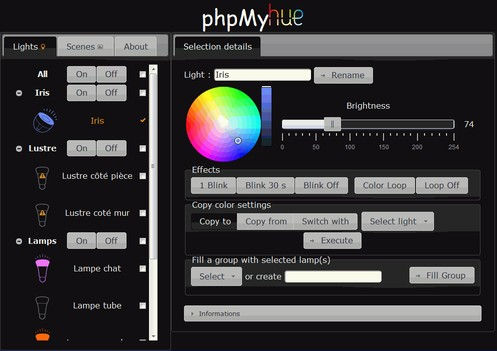
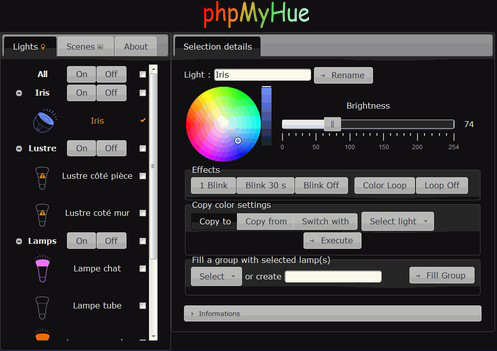
v1.2.2

diff --git a/themes/style.css b/themes/style.css
@@ -69,11 +69,6 @@ input[type=checkbox]:checked {
 	color: red;
 }
 
-/* Title */
-#title {
-	font: 3em "Comic Sans MS";
-}
-
 /* Page body */
 #sel {
 	float: left;

diff --git a/index.php b/index.php
@@ -38,7 +38,7 @@ else {$cur_branch = " (".$cur_branch.")";}
 <SCRIPT TYPE="text/javascript" SRC="js/functions.js"></SCRIPT>
 <BODY>
 <DIV ID=msg></DIV>
-<DIV ID=title><DIV CLASS=titre>phpMy<IMG src="img/hue.png"></DIV></DIV>
+<DIV ID=title><IMG SRC="img/phpmyhue.png"></DIV>
 <DIV ID=page>
 
 <!-- left pane -->
